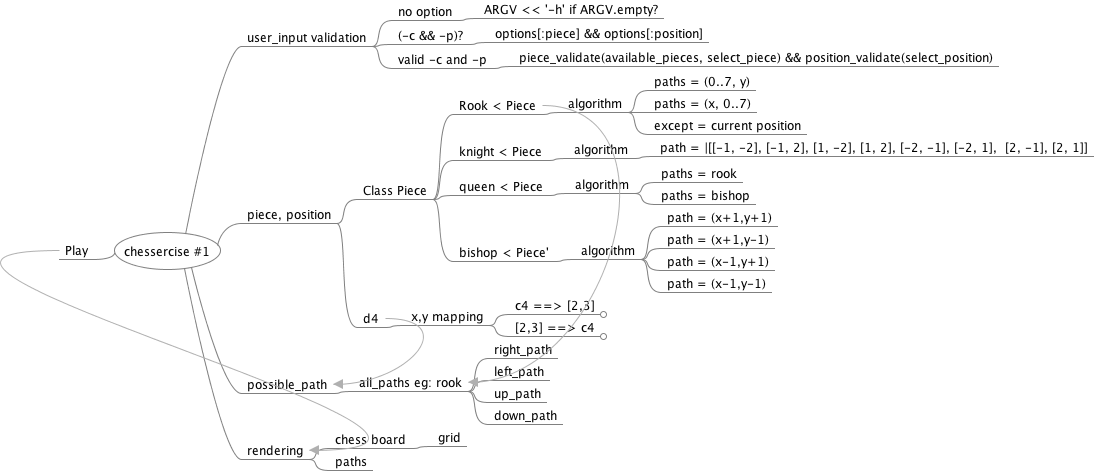
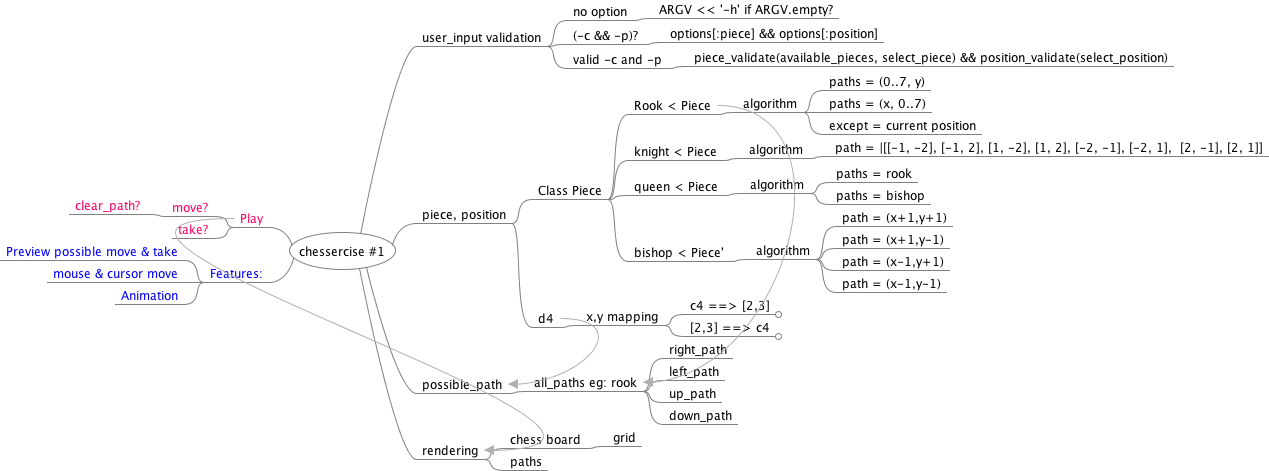
Update programmflow

Changed region(s): [[0.0, 0.0, 0.9945, 1.0], [0.2797, 0.6837, 0.3108, 0.7431]]

diff --git a/programflow.mm b/programflow.mm
@@ -65,8 +65,12 @@
 <node CREATED="1523376689220" ID="ID_314904156" MODIFIED="1523376692218" TEXT="down_path"/>
 </node>
 </node>
-<node CREATED="1523377389907" ID="ID_470510763" MODIFIED="1523377486058" POSITION="left" TEXT="Play">
+<node COLOR="#ff0066" CREATED="1523377389907" ID="ID_470510763" MODIFIED="1523531589609" POSITION="left" TEXT="Play">
 <arrowlink DESTINATION="ID_130088656" ENDARROW="Default" ENDINCLINATION="277;0;" ID="Arrow_ID_1516409428" STARTARROW="None" STARTINCLINATION="277;0;"/>
+<node COLOR="#ff0066" CREATED="1523531499191" ID="ID_1378240424" MODIFIED="1523531631906" TEXT="move?">
+<node COLOR="#ff0066" CREATED="1523531506963" ID="ID_298602362" MODIFIED="1523531643080" TEXT="clear_path?"/>
+</node>
+<node COLOR="#ff0066" CREATED="1523531529957" ID="ID_1095575443" MODIFIED="1523531617494" TEXT="take?"/>
 </node>
 <node CREATED="1523375605939" ID="ID_130088656" MODIFIED="1523377486058" POSITION="right" TEXT="rendering">
 <linktarget COLOR="#b0b0b0" DESTINATION="ID_130088656" ENDARROW="Default" ENDINCLINATION="277;0;" ID="Arrow_ID_1516409428" SOURCE="ID_470510763" STARTARROW="None" STARTINCLINATION="277;0;"/>
@@ -74,6 +78,11 @@
 <node CREATED="1523377207364" ID="ID_826889977" MODIFIED="1523377259614" TEXT="grid"/>
 </node>
 <node CREATED="1523377272135" ID="ID_1453876188" MODIFIED="1523377284581" TEXT="paths"/>
+</node>
+<node COLOR="#0000ff" CREATED="1523531752158" ID="ID_845407927" MODIFIED="1523531909813" POSITION="left" TEXT="Features:">
+<node COLOR="#0000ff" CREATED="1523531764969" ID="ID_1251649910" MODIFIED="1523531946785" TEXT="Preview possible move &amp; take"/>
+<node COLOR="#0000ff" CREATED="1523531779227" ID="ID_1218222430" MODIFIED="1523531928741" TEXT="mouse &amp; cursor move"/>
+<node COLOR="#0000ff" CREATED="1523531869173" ID="ID_1405132903" MODIFIED="1523531928739" TEXT="Animation"/>
 </node>
 </node>
 </map>
